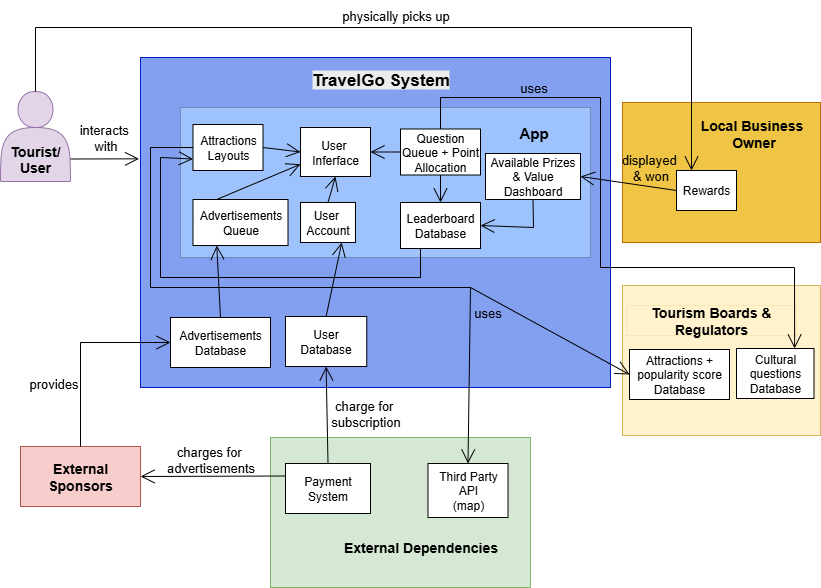
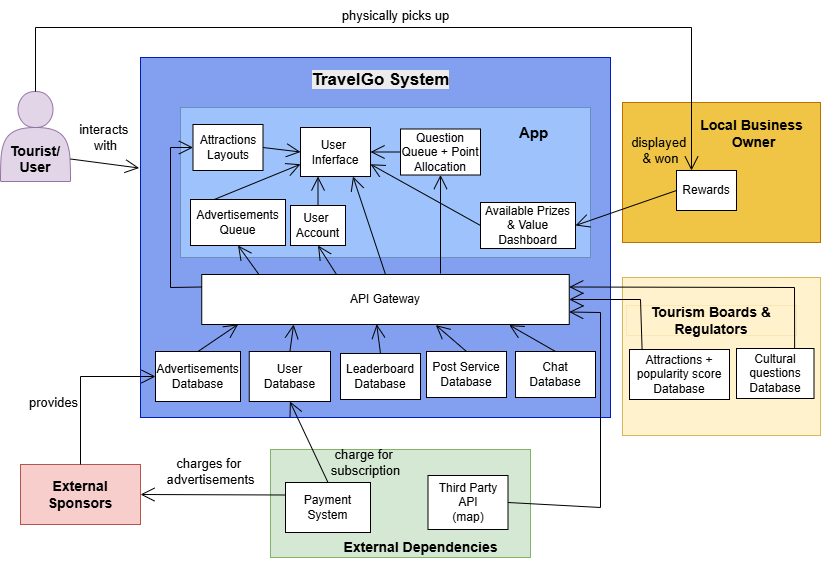
updated c4 diagrams

diff --git a/report/Team_11_Final_Report.md b/report/Team_11_Final_Report.md
@@ -511,8 +511,14 @@ As can be seen from the Figure 11.3 below, the system's Application will contain
 ![](ComponentDiagram.png)
 <p style="text-align: center;"> Figure 11.3: Component Diagram</p>
 
-### 11.4 Code View
+### 11.4 Class View
 
+<!---
+Text here.
+--->
+
+![](ClassDiagram.png)
+<p style="text-align: center;"> Figure 11.3: Class Diagram</p>
 
 ### 11.5 Deployment View
 At runtime, TravelGo operates within a Docker-based containerized environment. Each service (User, Post, Map, etc.) runs in its own container, orchestrated by Docker Compose.
